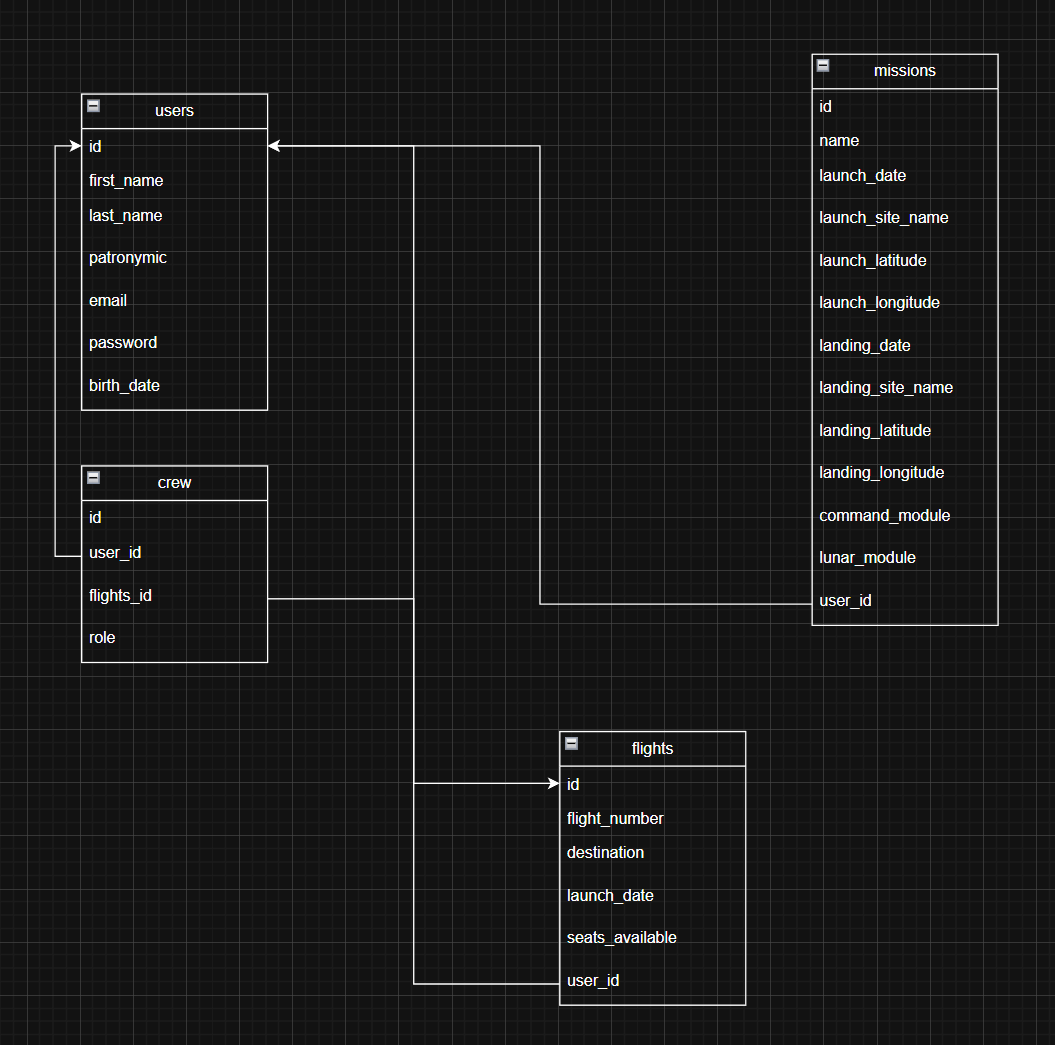
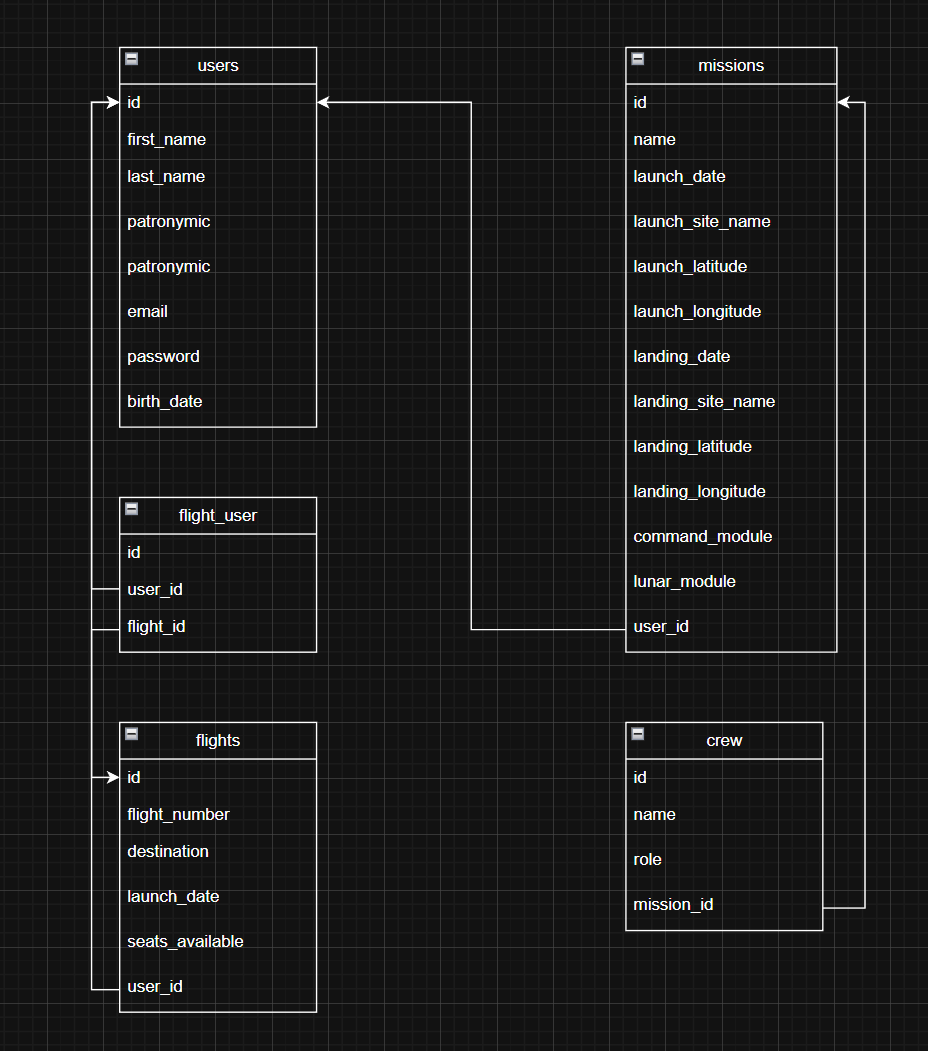
Фикс старой диаграммы и добавление новых запросов

diff --git a/app/Http/Controllers/FlightsController.php b/app/Http/Controllers/FlightsController.php
@@ -3,10 +3,14 @@
 namespace App\Http\Controllers;
 
 use App\Models\Flights;
-use App\Http\Requests\StoreFlightsRequest;
+
+use App\Http\Requests\StoreSpaceFlightsRequest;
+use App\Http\Requests\StoreBookFlightsRequest;
+
 use App\Http\Requests\UpdateFlightsRequest;
 
 use App\Http\Resources\GagarinFlightResource;
+use Auth;
 
 class FlightsController extends Controller
 {
@@ -15,25 +19,61 @@ class FlightsController extends Controller
         return response(new GagarinFlightResource($flights), 200);
     }
 
-    public function show_flight(Flights $flights)
+    // НЕРАБОТАЕТ
+    public function show_flights(Flights $flights)
     {
-        return $flights;
-
-        //return FlightResource::collection(Flights::all());
+        return 'flights';
     }
 
-    public function store_space_flights(StoreFlightsRequest $request)
+    public function store_space_flights(StoreSpaceFlightsRequest $request)
     {
-        return 'store_space_flights';
+        $user=Auth::user();
+        $flight = new Flights($request->all());
+        $flight->user_id = $user->id;
+        $flight->save();
+
+        return response()->json([
+            "data"=>[
+                "code"=> 201,
+                "message"=> "Космический полет создан"
+            ]
+        ], 201);
     }
 
-    public function show_space_flights(Flights $flights)
+    public function show_space_flight(Flights $flights)
     {
-        return $flights;
+        return Flights::all()->makeHidden(['id', 'user_id', 'created_at', 'updated_at']);
     }
 
-    public function store_book_flight(StoreFlightsRequest $request)
+
+    // НЕРАБОТАЕТ
+    public function store_book_flight(StoreBookFlightsRequest $request)
     {
-        return 'store_book_flight';
+        $user = Auth::user();
+        $flights = Flights::where('flight_number', $request->flight_number)->first();
+        
+        if ($flights==null)
+        {
+            return response()->json([
+                'code'=> 422,
+                'message'=> 'Validation error',
+                'errors'=>[
+                    'flight_number'=> ["field flight_number can not be blank"],
+                ]
+            ]);
+        }
+
+        if ($flights->seats_available - $flights->flight_user->count() == 0) {
+            return response()->json(
+                ["message" => "Свободных мест нет"]
+            , 403);
+        }
+
+        $flights->users()->attach($user->id);
+        return response()->json([
+            "data"=>[
+                "message"=> 'Рейс забронирован',
+            ]
+        ], 201);
     }    
 }

diff --git a/routes/api.php b/routes/api.php
@@ -18,30 +18,28 @@ Route::post('/authorization', [UserController::class, 'login']);
 // Если вошел в аккаунт разрешается:
 Route::group(['middleware' => 'auth:sanctum'], function () {
     Route::get('/logout', [UserController::class, 'logout']);
-    Route::get('/gagarin-flight', [FlightsController::class, 'show_gagarin_flight']);
+    Route::get('/api/gagarin-flight', [FlightsController::class, 'show_gagarin_flight']);
 
 
 
-    // Лунные миссии
-    Route::post('/lunar-missions', [MissionsController::class, 'store']);
 
 
-
-    
     // Рейсы
-    Route::get('/flight', [FlightsController::class, 'show_flight']);
+    //Route::get('/flight', [FlightsController::class, 'show_flight']);
 
     Route::post('/space-flights', [FlightsController::class, 'store_space_flights']);
-    Route::get('/space-flights', [FlightsController::class, 'show_space_flights']);
+    Route::get('/space-flights', [FlightsController::class, 'show_space_flight']);
+
     Route::post('/book-flight', [FlightsController::class, 'store_book_flight']);
 
-    //Route::get('/search', [InfoController::class, 'show']);
 
     // Лунные миссии
-    //Route::post('/lunar-missions', [MissionsController::class, 'store']); - сверху уже есть
+    //Route::post('/lunar-missions', [MissionsController::class, 'store']);
 
     //Route::get('/lunar-missions', [LunarMissionController::class, 'show']);
     //Route::delete('/lunar-missions/{mission_id}', [LunarMissionController::class, 'destroy']);
     //Route::path('/lunar-missions/{mission_id}', [LunarMissionController::class, 'update']);
     //Route::post('/lunar-watermark', [LunarMissionController::class, 'watermarkStore']);
+
+    //Route::get('/search', [InfoController::class, 'show']);
 });

diff --git a/app/Http/Requests/StoreSpaceFlightsRequest.php b/app/Http/Requests/StoreSpaceFlightsRequest.php
@@ -1,0 +1,31 @@
+<?php
+
+namespace App\Http\Requests;
+
+use Illuminate\Foundation\Http\FormRequest;
+
+class StoreSpaceFlightsRequest extends FormRequest
+{
+    /**
+     * Determine if the user is authorized to make this request.
+     */
+    public function authorize(): bool
+    {
+        return true;
+    }
+
+    /**
+     * Get the validation rules that apply to the request.
+     *
+     * @return array<string, \Illuminate\Contracts\Validation\ValidationRule|array<mixed>|string>
+     */
+    public function rules(): array
+    {
+        return [
+            'flight_number'=>['required','string'],
+            'destination'=>['required','string'],
+            'launch_date'=>['required','date'],
+            'seats_available'=>['required','int'],
+        ];
+    }
+}

diff --git a/database/migrations/2025_10_16_190410_create_flight_user_table.php b/database/migrations/2025_10_16_190410_create_flight_user_table.php
@@ -1,0 +1,29 @@
+<?php
+
+use Illuminate\Database\Migrations\Migration;
+use Illuminate\Database\Schema\Blueprint;
+use Illuminate\Support\Facades\Schema;
+
+return new class extends Migration
+{
+    /**
+     * Run the migrations.
+     */
+    public function up(): void
+    {
+        Schema::create('flight_user', function (Blueprint $table) {
+            $table->id();
+            $table->foreignid('user_id')->constrained('users')->onDelete('cascade');
+            $table->foreignid('flight_id')->constrained('flights')->onDelete('cascade');
+            $table->timestamps();
+        });
+    }
+
+    /**
+     * Reverse the migrations.
+     */
+    public function down(): void
+    {
+        Schema::dropIfExists('flight_users');
+    }
+};

diff --git a/app/Http/Requests/StoreBookFlightsRequest.php b/app/Http/Requests/StoreBookFlightsRequest.php
@@ -4,7 +4,7 @@ namespace App\Http\Requests;
 
 use Illuminate\Foundation\Http\FormRequest;
 
-class StoreFlightsRequest extends FormRequest
+class StoreBookFlightsRequest extends FormRequest
 {
     /**
      * Determine if the user is authorized to make this request.
@@ -22,7 +22,7 @@ class StoreFlightsRequest extends FormRequest
     public function rules(): array
     {
         return [
-            //
+            'flight_number'=>['required','string']
         ];
     }
 }

diff --git a/app/Providers/RouteServiceProvider.php b/app/Providers/RouteServiceProvider.php
@@ -30,7 +30,6 @@ class RouteServiceProvider extends ServiceProvider
 
         $this->routes(function () {
             Route::middleware('api')
-                ->prefix('api')
                 ->group(base_path('routes/api.php'));
 
             Route::middleware('web')

diff --git a/app/Models/Flights.php b/app/Models/Flights.php
@@ -10,7 +10,7 @@ class Flights extends Model
     use HasFactory;
 
     protected $fillable = [
-        "flights_number",
+        "flight_number",
         "destination",
         "launch_date",
         "seats_available",
